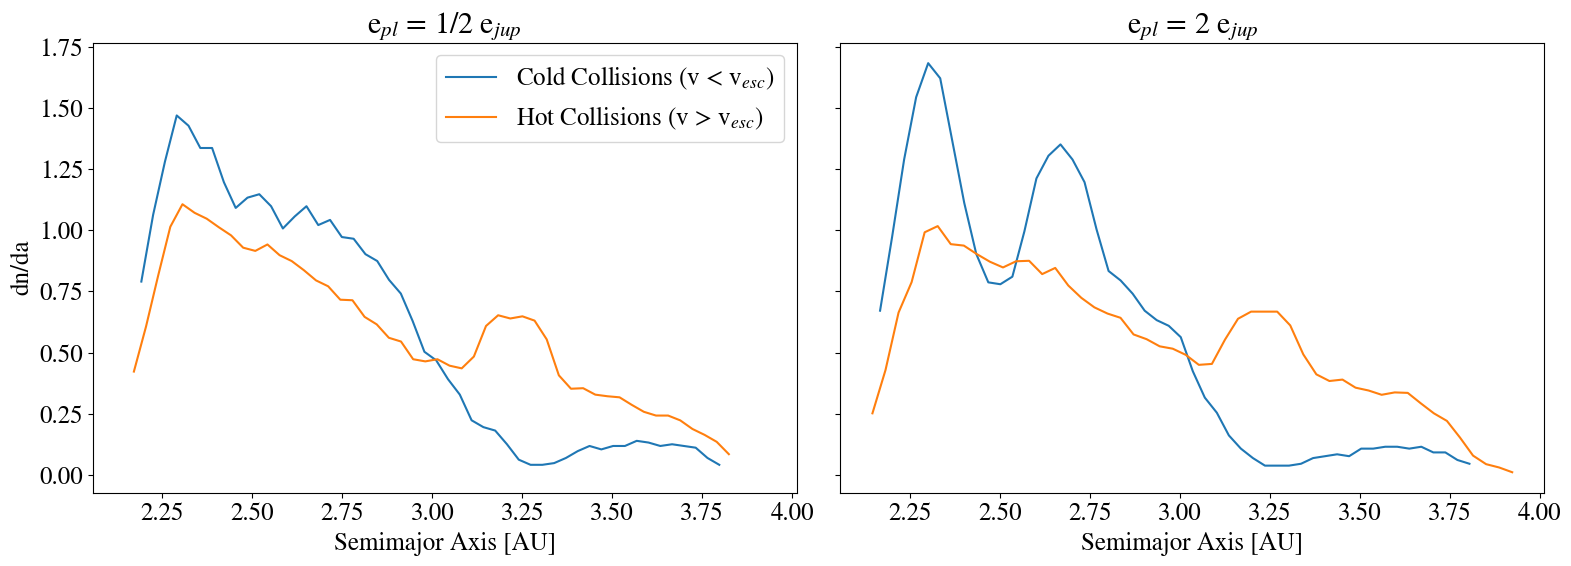
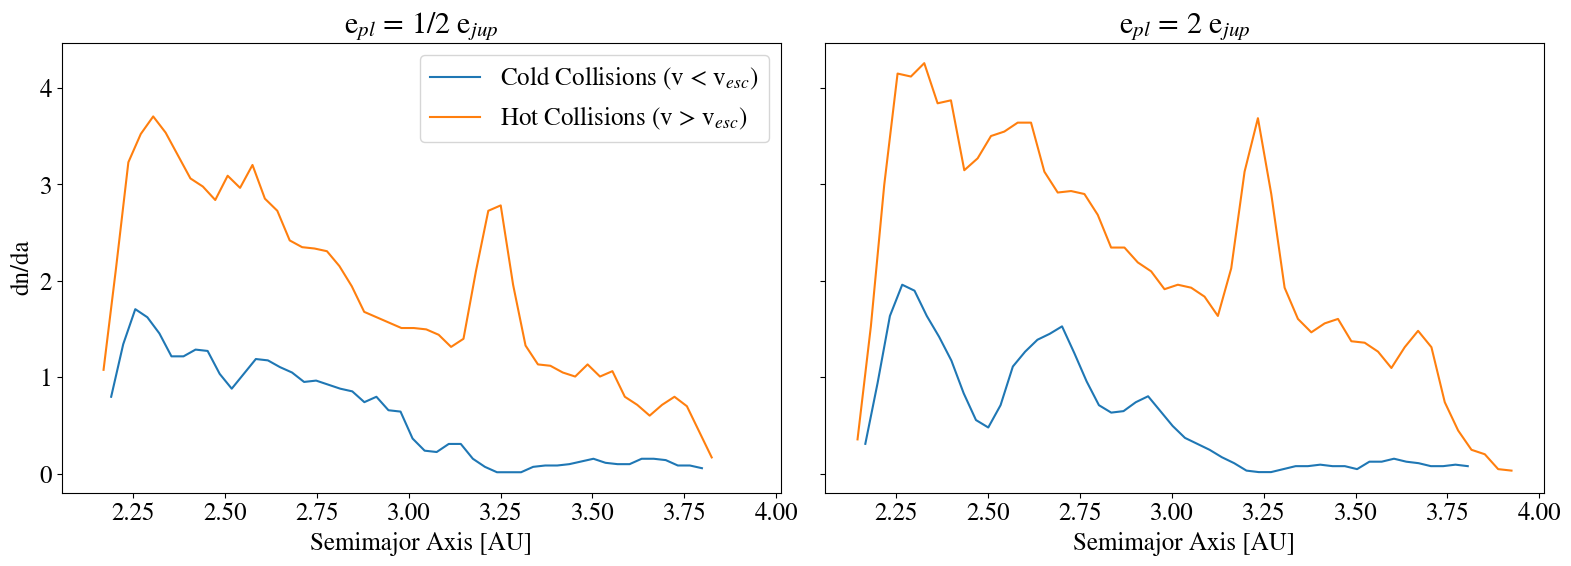
Clean up normalization of PDFs in later figures, add more captions

diff --git a/makeFig.py b/makeFig.py
@@ -39,7 +39,7 @@ ecc_jup = 0.048
 
 # Build a PDF from a series of data points using a KDE
 from sklearn.neighbors import KernelDensity
-def kde(qty, bw=0.1):
+def kde(qty, bw=0.05):
     bins = np.linspace(np.min(qty), np.max(qty))
     
     def kde_helper(x, x_grid, **kwargs):
@@ -264,11 +264,11 @@ def make_coll_hist_a():
 	coll_bins_a_e, coll_pdf_a_e = kde(coll_e['a1'])
 
 	fig, (ax1, ax2) = plt.subplots(figsize=(8,8), nrows=2, ncols=1, sharex=True)
-	ax1.plot(coll_bins_a_c, coll_pdf_a_c, linestyle='steps-mid')
+	ax1.plot(coll_bins_a_c, coll_pdf_a_c)
 	plot_res(ax1, show_widths=False)
 	ax1.set_ylabel('dN/da')
 	ax1.set_title('Circular Jupiter')
-	ax2.plot(coll_bins_a_e, coll_pdf_a_e, linestyle='steps-mid')
+	ax2.plot(coll_bins_a_e, coll_pdf_a_e)
 	plot_res(ax2, show_widths=False)
 	ax2.set_xlabel('Semimajor Axis [AU]')
 	ax2.set_ylabel('dN/da')
@@ -297,7 +297,7 @@ def make_coll_hist_r():
 
 	fig, ax = plt.subplots(figsize=(16,12), nrows=3, ncols=2, sharey='row', sharex='col')
 	
-	ax[0][0].plot(coll_bins_r_c, coll_pdf_r_c, linestyle='steps-mid')
+	ax[0][0].plot(coll_bins_r_c, coll_pdf_r_c)
 	plot_res(ax[0][0])
 	ax[0][0].set_ylabel('dN/dr')
 	ax[0][0].set_title('Circular Jupiter')
@@ -310,7 +310,7 @@ def make_coll_hist_r():
 	ax[2][0].set_xlim(a_in, a_out)
 	ax[2][0].set_ylim(-0.02, 0.35)
 
-	ax[0][1].plot(coll_bins_r_e, coll_pdf_r_e, linestyle='steps-mid')
+	ax[0][1].plot(coll_bins_r_e, coll_pdf_r_e)
 	plot_res(ax[0][1])
 	ax[0][1].set_ylabel('dN/dr')
 	ax[0][1].set_title('Eccentric Jupiter')
@@ -331,38 +331,48 @@ def make_coll_hist_e_and_m():
 
 	fig, ax = plt.subplots(figsize=(16,12), nrows=2, ncols=2, sharex=True, sharey=True)
 
-	coll_bins_a_e1, coll_pdf_a_e1 = kde(coll_e1['a1'])
 	coll_bins_a_e, coll_pdf_a_e = kde(coll_e['a1'])
+
+	coll_bins_a_e1, coll_pdf_a_e1 = kde(coll_e1['a1'])
+	coll_pdf_a_e1 *= len(coll_e1)/len(coll_e)
 	coll_bins_a_e2, coll_pdf_a_e2 = kde(coll_e2['a1'])
+	coll_pdf_a_e2 *= len(coll_e2)/len(coll_e)
 	coll_bins_a_m1, coll_pdf_a_m1 = kde(coll_m1['a1'])
+	coll_pdf_a_m1 *= len(coll_m1)/len(coll_e)
 	coll_bins_a_m2, coll_pdf_a_m2 = kde(coll_m2['a1'])
+	coll_pdf_a_m2 *= len(coll_m2)/len(coll_e)
+
+	coll_dist_e = np.sqrt(coll_e['x1x']**2 + coll_e['x1y']**2)
+	coll_bins_r_e, coll_pdf_r_e = kde(coll_dist_e)
 
 	coll_dist_e1 = np.sqrt(coll_e1['x1x']**2 + coll_e1['x1y']**2)
 	coll_bins_r_e1, coll_pdf_r_e1 = kde(coll_dist_e1)
-	coll_dist_e = np.sqrt(coll_e['x1x']**2 + coll_e['x1y']**2)
-	coll_bins_r_e, coll_pdf_r_e = kde(coll_dist_e)
+	coll_pdf_r_e1 *= len(coll_e1)/len(coll_e)
 	coll_dist_e2 = np.sqrt(coll_e2['x1x']**2 + coll_e2['x1y']**2)
 	coll_bins_r_e2, coll_pdf_r_e2 = kde(coll_dist_e2)
+	coll_pdf_r_e2 *= len(coll_e2)/len(coll_e)
 	coll_dist_m1 = np.sqrt(coll_m1['x1x']**2 + coll_m1['x1y']**2)
 	coll_bins_r_m1, coll_pdf_r_m1 = kde(coll_dist_m1)
+	coll_pdf_r_m1 *= len(coll_m1)/len(coll_e)
 	coll_dist_m2 = np.sqrt(coll_m2['x1x']**2 + coll_m2['x1y']**2)
 	coll_bins_r_m2, coll_pdf_r_m2 = kde(coll_dist_m2)
+	coll_pdf_r_m2 *= len(coll_m2)/len(coll_e)
 
-	ax[0][0].plot(coll_bins_a_e1, coll_pdf_a_e1, label=r'e$_{pl}$ = 1/2 e$_{jup}$', linestyle='steps-mid')
-	ax[0][0].plot(coll_bins_a_e, coll_pdf_a_e, label=r'e$_{pl}$ = e$_{jup}$', linestyle='steps-mid')
-	ax[0][0].plot(coll_bins_a_e2, coll_pdf_a_e2, label=r'e$_{pl}$ = 2 e$_{jup}$', linestyle='steps-mid')
+	ax[0][0].plot(coll_bins_a_e1, coll_pdf_a_e1, label=r'e$_{pl}$ = 1/2 e$_{jup}$')
+	ax[0][0].plot(coll_bins_a_e, coll_pdf_a_e, label=r'e$_{pl}$ = e$_{jup}$')
+	ax[0][0].plot(coll_bins_a_e2, coll_pdf_a_e2, label=r'e$_{pl}$ = 2 e$_{jup}$')
 
-	ax[1][0].plot(coll_bins_a_m1, coll_pdf_a_m1, label=r'e$_{pl}$ = 1/2 e$_{jup}$', linestyle='steps-mid')
-	ax[1][0].plot(coll_bins_a_e, coll_pdf_a_e, label=r'e$_{pl}$ = e$_{jup}$', linestyle='steps-mid')
-	ax[1][0].plot(coll_bins_a_m2, coll_pdf_a_m2, label=r'e$_{pl}$ = 2 e$_{jup}$', linestyle='steps-mid')
+	ax[1][0].plot(coll_bins_a_m1, coll_pdf_a_m1, label=r'e$_{pl}$ = 1/2 e$_{jup}$')
+	ax[1][0].plot(coll_bins_a_e, coll_pdf_a_e, label=r'e$_{pl}$ = e$_{jup}$')
+	ax[1][0].plot(coll_bins_a_m2, coll_pdf_a_m2, label=r'e$_{pl}$ = 2 e$_{jup}$')
 
-	ax[0][1].plot(coll_bins_r_e1, coll_pdf_r_e1, label=r'e$_{pl}$ = 1/2 e$_{jup}$', linestyle='steps-mid')
-	ax[0][1].plot(coll_bins_r_e, coll_pdf_r_e, label=r'e$_{pl}$ = e$_{jup}$', linestyle='steps-mid')
-	ax[0][1].plot(coll_bins_r_e2, coll_pdf_r_e2, label=r'e$_{pl}$ = 2 e$_{jup}$', linestyle='steps-mid')
+	ax[0][1].plot(coll_bins_r_e1, coll_pdf_r_e1, label=r'e$_{pl}$ = 1/2 e$_{jup}$')
+	ax[0][1].plot(coll_bins_r_e, coll_pdf_r_e, label=r'e$_{pl}$ = e$_{jup}$')
+	ax[0][1].plot(coll_bins_r_e2, coll_pdf_r_e2, label=r'e$_{pl}$ = 2 e$_{jup}$')
 
-	ax[1][1].plot(coll_bins_r_m1, coll_pdf_r_m1, label=r'm$_{pl}$ = 1/2 m$_{jup}$', linestyle='steps-mid')
-	ax[1][1].plot(coll_bins_r_e, coll_pdf_r_e, label=r'm$_{pl}$ = m$_{jup}$', linestyle='steps-mid')
-	ax[1][1].plot(coll_bins_r_m2, coll_pdf_r_m2, label=r'm$_{pl}$ = 2 m$_{jup}$', linestyle='steps-mid')
+	ax[1][1].plot(coll_bins_r_m1, coll_pdf_r_m1, label=r'm$_{pl}$ = 1/2 m$_{jup}$')
+	ax[1][1].plot(coll_bins_r_e, coll_pdf_r_e, label=r'm$_{pl}$ = m$_{jup}$')
+	ax[1][1].plot(coll_bins_r_m2, coll_pdf_r_m2, label=r'm$_{pl}$ = 2 m$_{jup}$')
 
 	ax[0][0].set_ylabel('dn/dr')
 	ax[1][0].set_xlabel('Semimajor Axis [AU]')
@@ -395,8 +405,10 @@ def make_coll_hist_hot_cold_a():
 
 	coll_bins_a_e1_cold, coll_pdf_a_e1_cold = kde(coll_e1_cold['a1'])
 	coll_bins_a_e1_hot, coll_pdf_a_e1_hot = kde(coll_e1_hot['a1'])
+	coll_pdf_a_e1_hot *= len(coll_e1_hot)/len(coll_e1_cold)
 	coll_bins_a_e2_cold, coll_pdf_a_e2_cold = kde(coll_e2_cold['a1'])
 	coll_bins_a_e2_hot, coll_pdf_a_e2_hot = kde(coll_e2_hot['a1'])
+	coll_pdf_a_e2_hot *= len(coll_e2_hot)/len(coll_e2_cold)
 
 	fig, ax = plt.subplots(figsize=(16,6), nrows=1, ncols=2, sharex=True, sharey=True)
 
@@ -454,11 +466,13 @@ def make_coll_hist_r_inout_res():
 	coll_in_21_e2, coll_out_21_e2 = coll_in_out_21(coll_e2)
 
 	coll_bins_in_21_e1, coll_pdf_in_21_e1 = kde(coll_in_21_e1['dist2'])
-	coll_bins_out_21_e1, coll_pdf_out_21_e1 = kde(coll_out_21_e1['dist2'])
 	coll_bins_in_21_e2, coll_pdf_in_21_e2 = kde(coll_in_21_e2['dist2'])
+	coll_pdf_in_21_e2 *= len(coll_in_21_e1)/len(coll_in_21_e2)
+	coll_bins_out_21_e1, coll_pdf_out_21_e1 = kde(coll_out_21_e1['dist2'])
 	coll_bins_out_21_e2, coll_pdf_out_21_e2 = kde(coll_out_21_e2['dist2'])
+	coll_pdf_out_21_e2 *= len(coll_out_21_e1)/len(coll_out_21_e2)
 
-	fig, ax = plt.subplots(figsize=(16,6), nrows=1, ncols=2, sharex=True, sharey=True)
+	fig, ax = plt.subplots(figsize=(16,6), nrows=1, ncols=2, sharex=True)
 	ax[0].plot(coll_bins_in_21_e1, coll_pdf_in_21_e1, label=r'e$_{pl}$ = 1/2 e$_{jup}$')
 	ax[0].plot(coll_bins_in_21_e2, coll_pdf_in_21_e2, label=r'e$_{pl}$ = 2 e$_{jup}$')
 	ax[1].plot(coll_bins_out_21_e1, coll_pdf_out_21_e1)
@@ -487,7 +501,7 @@ def make_wander_res_scale():
 	for idx, jef in enumerate(jup_ecc_fac):
 		rw = res_width_jup(res_p[res_idx], res_q[res_idx], ecc_jup*jef)
 
-		avals = np.linspace(2,4)
+		avals = np.linspace(2,3)
 		evals = np.zeros_like(avals)
 		for idx1, val in enumerate(avals):
 			evals[idx1] = e_forced(val, ecc_jup*jef)
@@ -505,7 +519,7 @@ def make_wander_res_scale():
 	for idx, jef in enumerate(jup_ecc_fac):
 		rw = res_width_jup(res_p[res_idx], res_q[res_idx], ecc_jup*jef)
 
-		avals = np.linspace(2,4)
+		avals = np.linspace(2.87,3.67)
 		evals = np.zeros_like(avals)
 		for idx1, val in enumerate(avals):
 			evals[idx1] = e_forced(val, ecc_jup*jef)
@@ -528,7 +542,7 @@ def make_wander_res_scale():
 #make_coll_hist_a()
 #make_coll_hist_r()
 #make_coll_hist_e_and_m()
-make_coll_hist_hot_cold_a()
+#make_coll_hist_hot_cold_a()
 #make_coll_gf_vary()
-#make_coll_hist_r_inout_res()
+make_coll_hist_r_inout_res()
 make_wander_res_scale()

diff --git a/main.tex b/main.tex
@@ -383,34 +383,34 @@ features can be used to place any constraints on the mass and eccentricity of th
 
 \begin{figure*}
     \includegraphics[width=\textwidth]{figures/coll_hist_e_and_m.png}
-    \caption{Caption goes here.\label{fig:coll_hist_e_and_m}}
+    \caption{\textit{Top}: KDE of the number of collisions at each semimajor axis (left) and heliocentric distance (right) as the eccentricity of of the perturbing planet is varied. \textit{Bottom}:  Same as top row, except the perturber's eccentricity is set to $e_{jup}$ and the mass is now varied. In all plots, the PDF is normalized to the ($e_{jup}, m_{jup}$) case. Characteristic bumps or dips appear near the 2:1 and 3:1 MMRs, the presence of which depends on the mass and eccentricity of the perturber. \label{fig:coll_hist_e_and_m}}
 \end{figure*}
 
 \begin{figure*}
     \begin{center}
     \includegraphics[width=\textwidth]{figures/coll_hist_hot_cold_a.png}
-    \caption{Caption goes here.\label{fig:coll_hist_hot_cold_a}}
+    \caption{KDE of the number of collisions at each semimajor axis for the lowest eccentricity case (left) and highest eccentricity case (right). To elucidate why a bump forms at the 2:1 while a dip forms at the 3:1 MMR, we split the resolved collisions into hot and cold categories. A bump is produced when the hot collision rate increases, while a dip is produced when the cold collision rate decreases.\label{fig:coll_hist_hot_cold_a}}
     \end{center}
 \end{figure*}
 
 \begin{figure*}
     \begin{center}
     \includegraphics[width=0.4\textwidth]{figures/coll_gf_vary.png}
-    \caption{Caption goes here.\label{fig:coll_gf_varg}}
+    \caption{The collision rate of a population of 300 km planetesimals as a function of the rms eccentricity in the vicinity of the 3:1 and 2:1 MMRs, relative to the value at $\left< e^{1/2} \right>^{2}$ = $10^{-3}$. The resonances will act to dynamically heat the local planetesimal population. The local minimum corresponds to the rms eccentricity at which the typical planetesimal encounter velocity is $v_{esc}$. If the planetesimals are heated by a small amount, gravitational focusing is suppressed and the collision rate decreases. Stronger dynamical heating will increase the encounter rate enough to overcome the lack of gravitational focusing.\label{fig:coll_gf_varg}}
     \end{center}
 \end{figure*}
 
 \begin{figure*}
     \begin{center}
     \includegraphics[width=\textwidth]{figures/coll_hist_r_inout_res.png}
-    \caption{Caption goes here.\label{fig:coll_hist_r_inout_res}}
+    \caption{KDE of the number of collisions at a given heliocentric distance for planetesimals inside (left) and outside (right) of the 2:1 MMR. In the $e_{pl} = 2 e_{jup}$ case, a bump, rather than a dip appears near the 2:1 MMR (see figure \ref{fig:coll_hist_e_and_m}). This bump is produced by non-resonant planetesimals undergoing collisions near the center of the 2:1 MMR.\label{fig:coll_hist_r_inout_res}}
     \end{center}
 \end{figure*}
 
 \begin{figure*}
     \begin{center}
     \includegraphics[width=\textwidth]{figures/wander_res_scale.png}
-    \caption{Caption goes here.\label{fig:wander_res_scale}}
+    \caption{The radial excursion distance of a planetesimal $\delta r_{ex}$ =  ($a_{pl} (1 + e_{f}$) (solid lines) near the resonance and full libration width $\delta r_{res}$ (dashed lines) of that resonance for the 3:1 (left) and 2:1 (right) MMR. For the 2:1 MMR, $\delta r_{ex} < \delta r _{res}$ near the resonance for $e_{pl} = 1/2 e_{jup}$ and $e_{pl} = e_{jup}$. In these case, a dip, rather than a bump appears near the resonance in the bottom right panel of figure \ref{fig:coll_hist_e_and_m}. \label{fig:wander_res_scale}}
     \end{center}
 \end{figure*}
 
